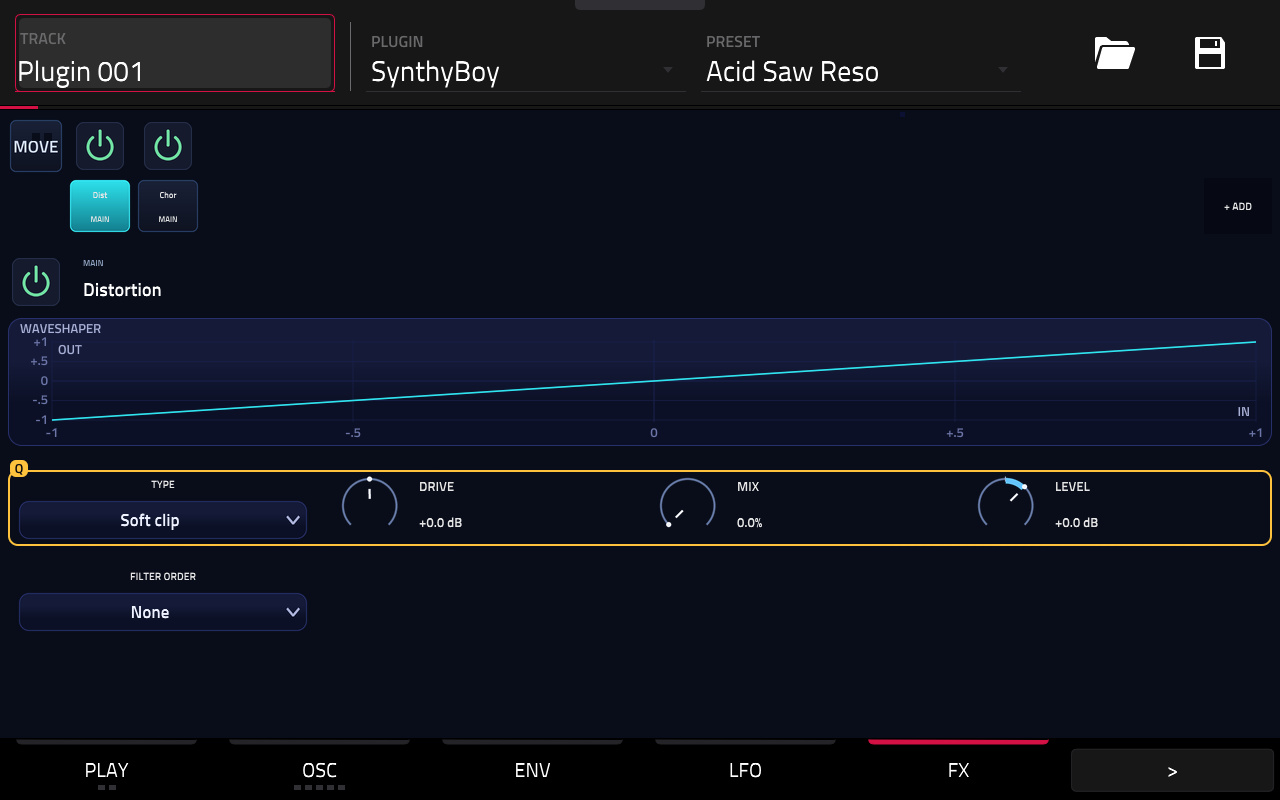
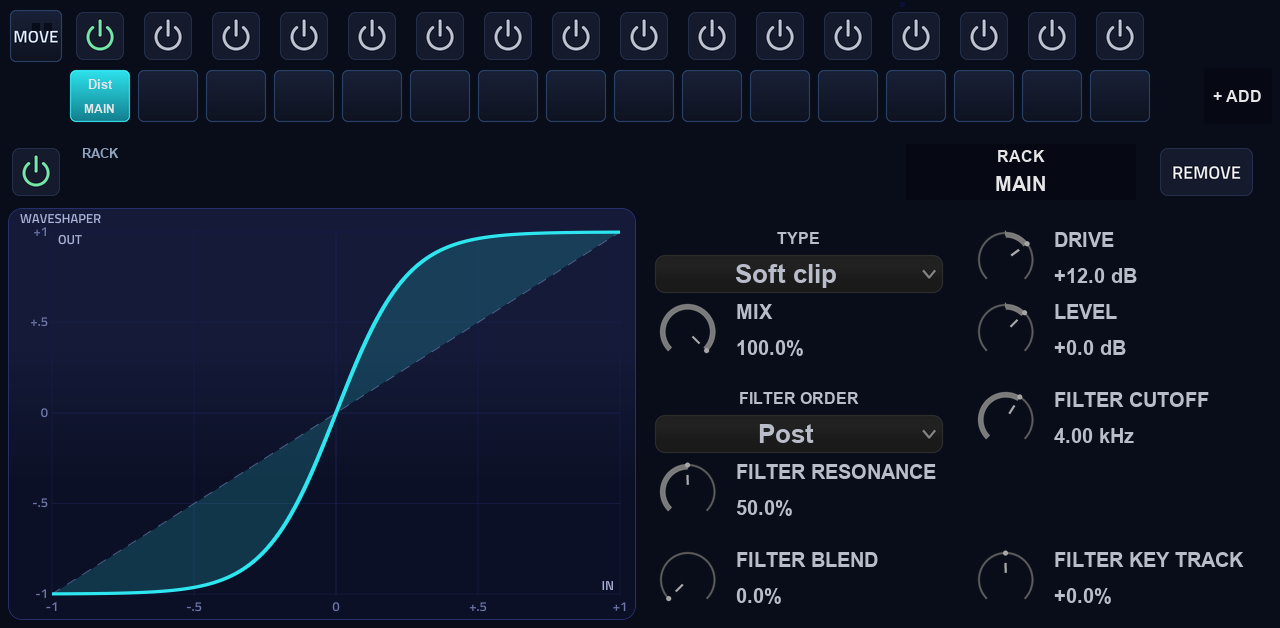
FX Distortion preview image, side layout docs, skin test and catalog status

diff --git a/docs/ui-components/native-katalogus.html b/docs/ui-components/native-katalogus.html
@@ -14,7 +14,7 @@
 <section id="env"><h2>Env</h2><p>MPC Key 61 hardverfelvétel · Acid Saw Reso · ARMv7 d7bda6a435b3</p><div class="pair"><figure><a href="../screens/env.jpg?v=e155c0b44a56"><img src="../screens/env.jpg?v=e155c0b44a56" alt="Env · aktuális előnézet"></a><figcaption>Env · aktuális előnézet</figcaption></figure></div></section>
 <section id="lfo"><h2>LFO</h2><p>MPC Key 61 hardverfelvétel · Acid Saw Reso · ARMv7 d7bda6a435b3</p><div class="pair"><figure><a href="../screens/lfo.jpg?v=612eb8882fb0"><img src="../screens/lfo.jpg?v=612eb8882fb0" alt="LFO · aktuális előnézet"></a><figcaption>LFO · aktuális előnézet</figcaption></figure></div></section>
 <section id="rnd"><h2>RND</h2><p>MPC Key 61 hardverfelvétel · Acid Saw Reso · ARMv7 132fdb30befc</p><div class="pair"><figure><a href="../screens/rnd.jpg?v=5d1ea5bdb06f"><img src="../screens/rnd.jpg?v=5d1ea5bdb06f" alt="RND · aktuális előnézet"></a><figcaption>RND · aktuális előnézet</figcaption></figure></div></section>
-<section id="fx"><h2>FX</h2><p>MPC Key 61 hardverfelvétel · Acid Saw Reso · ARMv7 d7bda6a435b3</p><div class="pair"><figure><a href="../screens/fx.jpg?v=f8cc46c5359b"><img src="../screens/fx.jpg?v=f8cc46c5359b" alt="FX · aktuális előnézet"></a><figcaption>FX · aktuális előnézet</figcaption></figure></div></section>
+<section id="fx"><h2>FX</h2><p>Szintetikus előnézet (nem hardverfotó) · Distortion, display bal / vezérlők jobb · scripts/render_ui_screen_fx_preview.py</p><div class="pair"><figure><a href="../screens/fx.jpg?v=4e6f61e422e6"><img src="../screens/fx.jpg?v=4e6f61e422e6" alt="FX · aktuális előnézet"></a><figcaption>FX · aktuális előnézet</figcaption></figure></div></section>
 <section id="mixer"><h2>Mixer</h2><p>MPC Key 61 hardverfelvétel · Acid Saw Reso · ARMv7 c7663816b7ad</p><div class="pair"><figure><a href="../screens/mixer_old.jpg?v=cd315c9184ef"><img src="../screens/mixer_old.jpg?v=cd315c9184ef" alt="Mixer · rögzített régi referencia"></a><figcaption>Mixer · rögzített régi referencia</figcaption></figure><figure><a href="../screens/mixer.jpg?v=6436ce15b0a2"><img src="../screens/mixer.jpg?v=6436ce15b0a2" alt="Mixer · aktuális előnézet"></a><figcaption>Mixer · aktuális előnézet</figcaption></figure></div></section>
 <section id="filter"><h2>Filter</h2><p>MPC Key 61 hardverfelvétel · Acid Saw Reso · ARMv7 d7bda6a435b3</p><div class="pair"><figure><a href="../screens/filter_old.jpg?v=0f55a2bfbe5c"><img src="../screens/filter_old.jpg?v=0f55a2bfbe5c" alt="Filter · rögzített régi referencia"></a><figcaption>Filter · rögzített régi referencia</figcaption></figure><figure><a href="../screens/filter.jpg?v=a01882e7ad38"><img src="../screens/filter.jpg?v=a01882e7ad38" alt="Filter · aktuális előnézet"></a><figcaption>Filter · aktuális előnézet</figcaption></figure></div></section>
 <section id="mod"><h2>Mod</h2><p>MPC Key 61 hardverfelvétel · Acid Saw Reso · ARMv7 d7bda6a435b3</p><div class="pair"><figure><a href="../screens/mod_old.jpg?v=0e79df023a0a"><img src="../screens/mod_old.jpg?v=0e79df023a0a" alt="Mod · rögzített régi referencia"></a><figcaption>Mod · rögzített régi referencia</figcaption></figure><figure><a href="../screens/mod.jpg?v=dab8fc1060e4"><img src="../screens/mod.jpg?v=dab8fc1060e4" alt="Mod · aktuális előnézet"></a><figcaption>Mod · aktuális előnézet</figcaption></figure></div></section>

diff --git a/scripts/render_ui_screen_fx_preview.py b/scripts/render_ui_screen_fx_preview.py
@@ -30,6 +30,9 @@ STATES = {
 }
 
 
+CANONICAL = "distortion-drive"   # the state of docs/screens/fx.jpg: the Distortion page, side layout, drive up, filter on
+
+
 class FxSkinSketch(OscSkinSketch):
     """Use the existing TUI renderer, resolving FX repetition and actual names."""
     def _caption_for_handle(self, local_handle, resolved, with_name):
@@ -132,7 +135,7 @@ def render_all(out_dir, work, states=None):
     metadata["tui_bytes"] = (skins / "TUI.json").stat().st_size
     metadata["png_bytes"] = sum(p.stat().st_size for p in skins.glob("*.png"))
     (out_dir / "manifest.json").write_text(json.dumps(metadata, indent=2)+"\n")
-    return out_dir / "chorus.png"
+    return out_dir / f"{next(iter(states))}.png"
 
 
 def main():
@@ -148,8 +151,8 @@ def main():
     with tempfile.TemporaryDirectory(prefix="synthyboy-fx-preview-") as folder:
         work = Path(folder)
         variants = args.out_dir if args.out_dir is not None else work / "fixtures"
-        chorus = render_all(variants, work, STATES if args.out_dir is not None else {"chorus": STATES["chorus"]})
-        with Image.open(chorus) as current:
+        chorus = render_all(variants, work, STATES if args.out_dir is not None else {CANONICAL: STATES[CANONICAL]})
+        with Image.open(chorus if args.out_dir is None else (args.out_dir / f"{CANONICAL}.png")) as current:
             save_screen(current, output)
     print(f"Rendered actual TUI + C++ FX composite to {output}")
     if args.out_dir is not None:

diff --git a/scripts/tests/test_mpc_skin_fx.py b/scripts/tests/test_mpc_skin_fx.py
@@ -303,13 +303,19 @@ class FxNativeGeneratedSkinTest(unittest.TestCase):
             self.assertEqual(c["bounds"]["acceptsHWFocus"], "No" if widget == "ReadOnly" else "Yes")
             self.assertEqual(c["handle remapping"]["map"], [{"key": "Data", "value": f"Parameter {target}"}], key)
 
-            top, rows = self.manifest["layouts"][layout - 1]
+            top, rows, *side = self.manifest["layouts"][layout - 1]
             row, col = divmod(slot, 4)
             row_h = (620 - top) // rows
             x, y, w, h = _rect(c)
             x += layer_x
             y += layer_y
-            self.assertEqual((x, y, w, h), (8 + col * 318, top + 16 + row * row_h, 310, max(72, row_h - 16)))
+            if side and side[0]:   # display left, controls right: two cells to a line at x 644, a 16 px lane above each row
+                lines = side[1:5]
+                row_y = top + sum(16 + 72 * lines[r] for r in range(row)) + 16
+                self.assertEqual((x, y, w, h), (644 + (col % 2) * 318, row_y + 72 * (col // 2), 310, 72))
+                self.assertLessEqual(y + h, 620)
+            else:
+                self.assertEqual((x, y, w, h), (8 + col * 318, top + 16 + row * row_h, 310, max(72, row_h - 16)))
             self.assertTrue(0 <= x < x + w <= 1280 and 176 <= y < y + h <= 628 and min(w, h) >= 56)
             observed[key] = _rect(c)
         live = {tuple(row) for row in self.manifest["widgets"]}

diff --git a/TODO.md b/TODO.md
@@ -325,3 +325,4 @@
 - [ ] x86-64 Linux (GCC 13.3, glibc 2.39) tesztfutás, megmaradt eltérések: (1) `synthyboy_test_fxopt_reverb_vintage` `fxopt_vintage_speed`: a váltott (új, régi, új, régi) mérés stabilan 0,83-0,88 arányt ad a 0,85-ös határ körül (a korábbi egymás utáni 5 mérés 0,69-1,14 között szórt, ez zaj volt); a modell x86-on 0,72. Kész, ha kiderül, hogy a Vintage reverb itt valóban csak kevéssel gyorsabb a referenciánál (fordító/vektorizálás) vagy a határ platformonként igazolt. (2) `synthyboy_param_audit_scan` baseline (`param-audit-baseline-own.json`) elavult: a 12 `compressor.*` kulcs (`high/mid/low.lower/upper_ratio/threshold`) modulációja most él (n/a -> ALIVE), és a `mod01/mod64.destination` görbe 34. pontja 118 -> 73; frissítendő a referencia-platformon. (3) `synthyboy_factory_content_reproducible`: `content/factory-wavetables/Digital/fm_feedback_saw.wav` és `contentpack.json` eltér a generátortól x86 Linuxon (libm); referencia-platformon újragenerálandó vagy a generátor libm-függetlenítendő. (4) `synthyboy_test_release_scripts`: hiányzó környezet (scipy, MPC SDK, `scripts/tests/fixtures/main_fx_peek/*.png`, `--build-dir`); ezek a Linux hoston nem futtathatók. (5) `test_own_osc_options` x86-64 checksumok ezen a hoston rögzítve, az ARM referenciaértékek újraellenőrzendők a Macen (FMA-s x86 fordítás mind az öt értéket megváltoztatja, ezért ott a vizsgálat kihagyva).
 
 - [ ] Oscillator savings, second round (branch of 2026-11-26, items 1 to 8 of the review follow-up; `docs/dsp-knowledge/antialiasing.md`, `docs/MPC.md` "Sound differences at tier low", `core/tests/test_own_wt_osc_savings.cpp`): measure on the Key 61 (armv7, tier low) and the XL (aarch64, `high,voices=16`) with an interleaved A/B/A of `tier_bench --sections` (build before and after, same device state) on a morph preset held and moving (Stretched Glass Choir, Shepard Ascent), a FM / Quantize / Tube warp preset and a plain unison preset; save package identity, raw files and the sampling limits under `.hw-local/mpc-perf/`. Done when the table shows which of the steady plain read, the held morph skip, the four lane FM / sample domain read, the four output 2x decimator and the morph build changes pay on the A17 and the A76, and a change that does not pay (HYPOTHESIS: the plain read and the decimator) is reverted. Not done in this round, needs a device or another owner: the 4x decimator transposition for AArch64, the half-band 4x redesign, Spectral phase rotation and prefetch, the shared `MorphScratch` wiring, the `update ()` exp2 ratios (not bit identical, low value).
+- [ ] FX Distortion side layout (display left, controls right, `fxl::Layout::side`, `nativeui::kFxLayouts[14]`): check it on the MPC (Key 61 and XL): native cells at x 644 / 962 over the plot, the Mixer-peek stacked fallback, Q-Link order TYPE, DRIVE, MIX, LEVEL. Run `mixfx_ui_host`, `fx_native_ui_host`, `layout_lint_host` (add a Distortion filter-on state), `coverage_host` and the gallery on the merged tree; `docs/screens/fx.jpg` is a synthetic render (hardware photo to follow, the catalog status says so).

diff --git a/docs/ui-components/fx-display.md b/docs/ui-components/fx-display.md
@@ -3,7 +3,7 @@
 > Bound to SynthyBoy's effect types: `fx_display.h` includes `synthyboy/fx_types.h` (`kFxTypeEq`, `kFxTypeCompressor`, `kFxTypeDelay`, `kFxTypeFilter`, `kFxTypeDistortion` ...). To reuse it, replace `kindOfType()` (the map from your effect type to a `Kind`) and the types the models know; the five models themselves (`bandDb`, `compOut`, `shape` ...) are plain functions.
 
 ## What it is
-The picture of what an effect does, from the parameters of the selected slot, drawn with thin smooth lines: the EQ frequency response, the compressor transfer curves, the echoes of a delay, the response of an FX filter, the waveshaper curve of a distortion. Effects without a display (and the splitters) get none: the editor gives their knobs the room.
+The picture of what an effect does, from the parameters of the selected slot, drawn with thin smooth lines: the EQ frequency response, the compressor transfer curves, the echoes of a delay, the response of an FX filter, the waveshaper curve of a distortion (thick curve, dashed faint identity diagonal, and the area between them with a faint fill, so a curve at 0 dB drive still shows what it does). Effects without a display (and the splitters) get none: the editor gives their knobs the room.
 
 ## Header and types
 `shell-mpc/ui/fx_display.h`: `FxDisplay`, `FxDisplay::Kind { None, Eq, Compressor, Delay, Filter, Distortion }`, `EqBand`, `EqState`, `CompBand`, `CompState`, `DelayState`, `FilterState`, `DistState`.
@@ -22,7 +22,7 @@ Public members of `FxDisplay`:
 Set the kind with `setKind (kind, name)` or `setKindFromType (fxType)` (uses `kindOfType`). Static helpers: `bandDb (band, EqBand, f)`, `compOut (CompBand, x)`, `shape (type, driveDb, x)`; `kPoints` 192.
 
 ## Size
-`minSize()` 200 x 120; the editor gives it `fxl::Layout::displayH` (160, 176 or 220 px; `FxSlotEditor::kDisplayH` = 176) under the header. Larger: more plot room.
+`minSize()` 200 x 120; the editor gives it `fxl::Layout::displayH` (160, 176 or 220 px; `FxSlotEditor::kDisplayH` = 176) under the header. Larger: more plot room. A table with `fxl::Layout::side` (now the Distortion only) puts the display at the LEFT over the whole page height (628 x 412 px on the full page) and the controls at the right; the Mixer peek keeps the stacked layout (see `fx-editor.md`).
 
 ## Touch and knob behaviour
 None (a state in, a picture out). The knobs around it edit the values.

diff --git a/docs/ui-components/fx-editor.md b/docs/ui-components/fx-editor.md
@@ -80,6 +80,8 @@ THE RULE: every control that is not live is hidden. Remaining cells compact left
 `FxFullScreen`: `chainBar`, `slotEditor`, `gallery`; `assignIds (chainBaseId, editorBaseId)` (editor: power `+100`, rack `+101`, page `+102`, remove `+103`), `setEditorShown (bool)`, `galleryShown()`, `groupName (g)`, `activeGroup()`, `setActiveGroup (g)`, `turnQ`.
 
 ## Size
+SIDE LAYOUT (`fxl::Layout::side`, Distortion): display left (x 8, width 628, y 208 to 620), controls right in two columns of 310 px (x 644 and 962), two cells to a line of 72 px, a 16 px Q lane above each row; a row has ceil (cells of its table row / 2) lines, so the four cells of DISTORTION are a 2 x 2 block (TYPE, DRIVE / MIX, LEVEL), the Q frame is the union. Only on the full page: with a Mixer-peek inset the stacked layout applies (`FxSlotEditor::sideMode ()`). Native cells: `nativeui::FxLayout::side / lines` (`shell-mpc/native_fx_cells.h`), the skin places them with the same formula (`scripts/mpc-skin-extras/20_fx.py` `_side_cell_rect`); regenerate `fx-native-contract.json` with `fx_native_ui_host --skin-contract` (it also lists the stacked variant for the peek).
+
 `FxSlotEditor::minSize()` 1200 x 400, `kHeaderH` 56, `kDisplayH` 176. `FxFullScreen::minSize()` 1280 x 628, `kBarH` 88.
 
 ## Touch and knob behaviour
